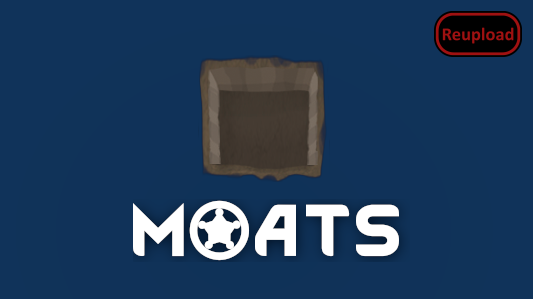
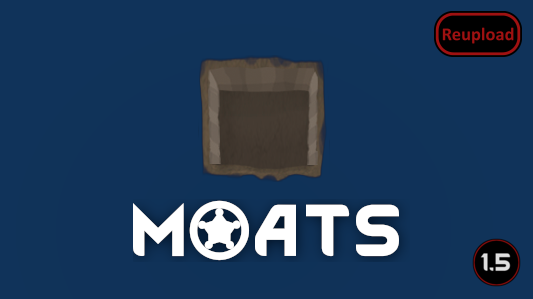
Mod updated for 1.5 and passed autotests

Changed region(s): [[0.8705, 0.7826, 0.9906, 0.9632]]

diff --git a/Source/DefensiveMoats/Building_MoatBridge.cs b/Source/DefensiveMoats/Building_MoatBridge.cs
@@ -11,7 +11,7 @@ public class Building_MoatBridge : Building
     {
         base.SpawnSetup(map, respawningAfterLoad);
         moat = (Building_Moat)Map.thingGrid.ThingAt(Position, MoatThingDefOf.Moat);
-        moat.Destroy();
+        moat?.Destroy();
     }
 
     public override void DeSpawn(DestroyMode mode = DestroyMode.Vanish)

diff --git a/README.md b/README.md
@@ -28,10 +28,13 @@ Github: https://github.com/dsp1207/rw-defensive-moats/
 
 -  See if the the error persists if you just have this mod and its requirements active.
 -  If not, try adding your other mods until it happens again.
--  Post your error-log using https://steamcommunity.com/workshop/filedetails/?id=818773962]HugsLib and command Ctrl+F12
+-  Post your error-log using https://steamcommunity.com/workshop/filedetails/?id=818773962]HugsLib or the standalone https://steamcommunity.com/sharedfiles/filedetails/?id=2873415404]Uploader and command Ctrl+F12
 -  For best support, please use the Discord-channel for error-reporting.
 -  Do not report errors by making a discussion-thread, I get no notification of that.
 -  If you have the solution for a problem, please post it to the GitHub repository.
+-  Use https://github.com/RimSort/RimSort/releases/latest]RimSort to sort your mods
 
 
+
+https://steamcommunity.com/sharedfiles/filedetails/changelog/2637137397]![Image](https://img.shields.io/github/v/release/emipa606/DefensiveMoats?label=latest%20version&style=plastic&color=9f1111&labelColor=black)
 
